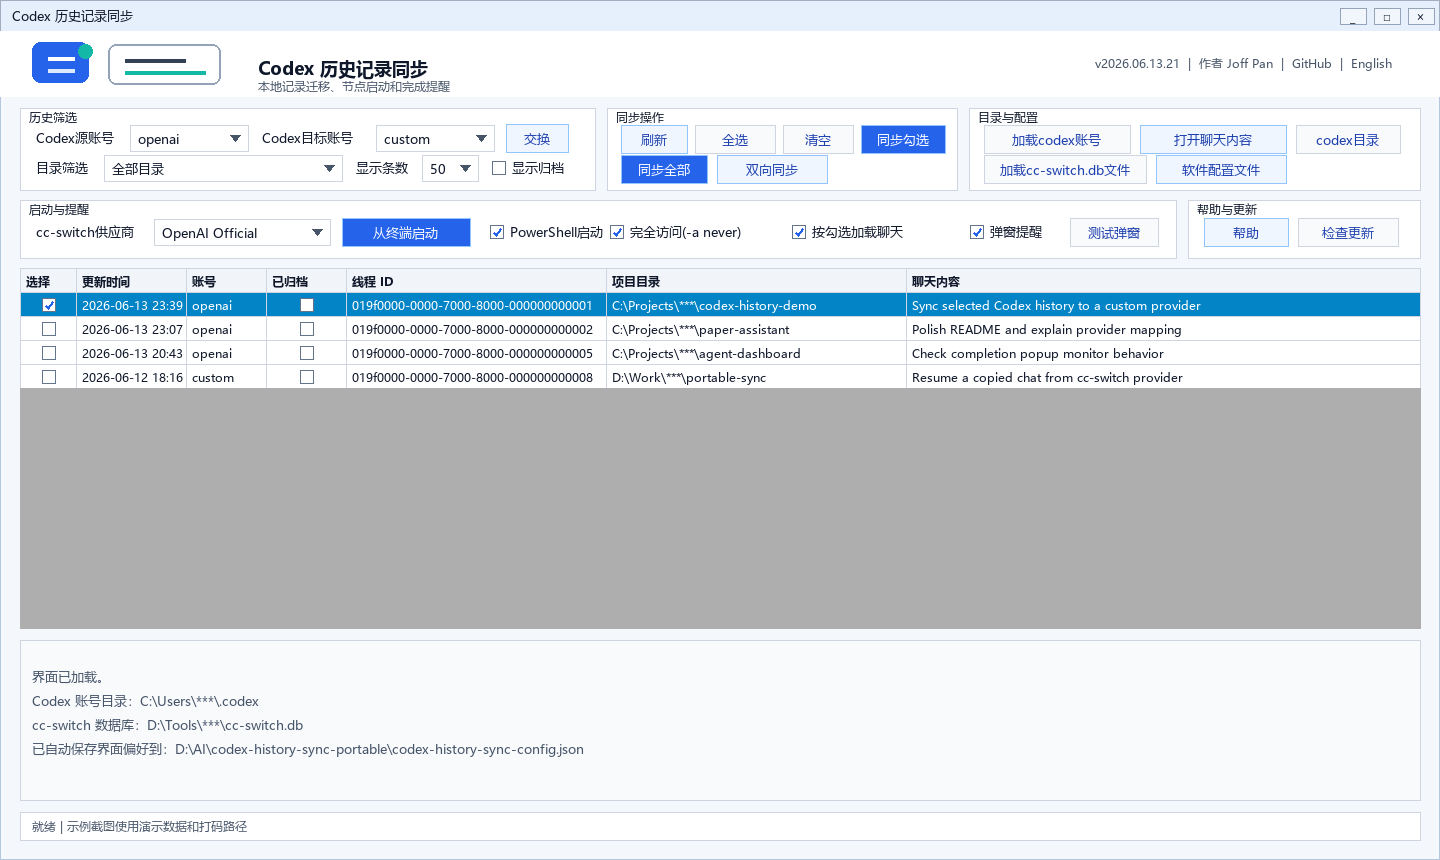
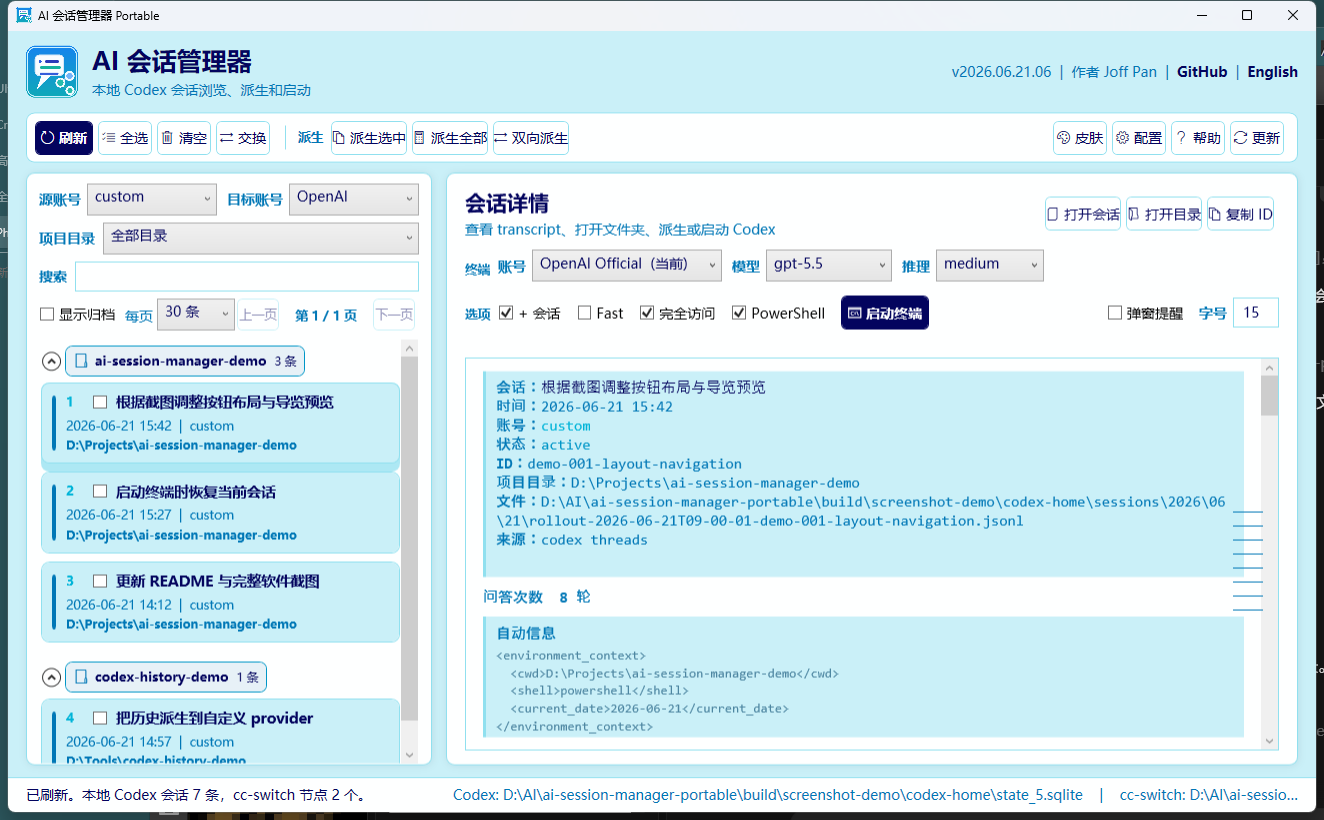
Sync navigation preview scroll and refresh docs

diff --git a/src/AiSessionManagerWpf/Program.cs b/src/AiSessionManagerWpf/Program.cs
@@ -24,7 +24,7 @@ namespace AiSessionManagerPortable
 {
     public static class Program
     {
-        public const string AppVersion = "2026.06.21.05";
+        public const string AppVersion = "2026.06.21.06";
         public const string AppAuthor = "Joff Pan";
         public const string GitHubUrl = "https://github.com/zhuofupan/ai-session-manager-portable";
 
@@ -3848,6 +3848,7 @@ namespace AiSessionManagerPortable
         private Border BuildNavigationPreviewPanel(int activeIndex, List<int> visibleIndexes)
         {
             var list = new StackPanel { Width = DetailNavigationPreviewWidth - 28 };
+            Border activeItem = null;
             foreach (var index in visibleIndexes)
             {
                 if (index < 0 || index >= _detailNavTargets.Count) continue;
@@ -3888,6 +3889,7 @@ namespace AiSessionManagerPortable
                     Background = button.Background,
                     Child = button
                 };
+                if (active) activeItem = item;
                 list.Children.Add(item);
             }
 
@@ -3899,6 +3901,16 @@ namespace AiSessionManagerPortable
                 HorizontalScrollBarVisibility = ScrollBarVisibility.Disabled,
                 Padding = new Thickness(8)
             };
+            if (activeItem != null)
+            {
+                scroll.Loaded += delegate
+                {
+                    Dispatcher.BeginInvoke(new Action(delegate
+                    {
+                        CenterNavigationPreviewItem(scroll, list, activeItem);
+                    }), System.Windows.Threading.DispatcherPriority.Loaded);
+                };
+            }
             return new Border
             {
                 Width = DetailNavigationPreviewWidth,
@@ -3909,6 +3921,31 @@ namespace AiSessionManagerPortable
                 CornerRadius = new CornerRadius(12),
                 Padding = new Thickness(0)
             };
+        }
+
+        private void CenterNavigationPreviewItem(ScrollViewer scroll, FrameworkElement container, FrameworkElement item)
+        {
+            if (scroll == null || container == null || item == null) return;
+            try
+            {
+                scroll.UpdateLayout();
+                container.UpdateLayout();
+                item.UpdateLayout();
+                var point = item.TransformToAncestor(container).Transform(new Point(0, 0));
+                var viewport = scroll.ViewportHeight > 0 ? scroll.ViewportHeight : Math.Min(scroll.ActualHeight, scroll.MaxHeight);
+                if (viewport <= 0) viewport = 120.0;
+                var itemHeight = item.ActualHeight > 0 ? item.ActualHeight : 28.0;
+                var offset = Math.Max(0, point.Y - Math.Max(0, (viewport - itemHeight) / 2.0));
+                scroll.ScrollToVerticalOffset(offset);
+                WriteDiagnostic("NavPreview scroll activeY=" + Math.Round(point.Y) +
+                    " itemHeight=" + Math.Round(itemHeight) +
+                    " viewport=" + Math.Round(viewport) +
+                    " offset=" + Math.Round(offset) + ".");
+            }
+            catch (Exception ex)
+            {
+                WriteDiagnostic("NavPreview scroll failed: " + ex.GetType().Name + ": " + ex.Message);
+            }
         }
 
         private string BuildNavigationPreview(ConversationEntry entry)